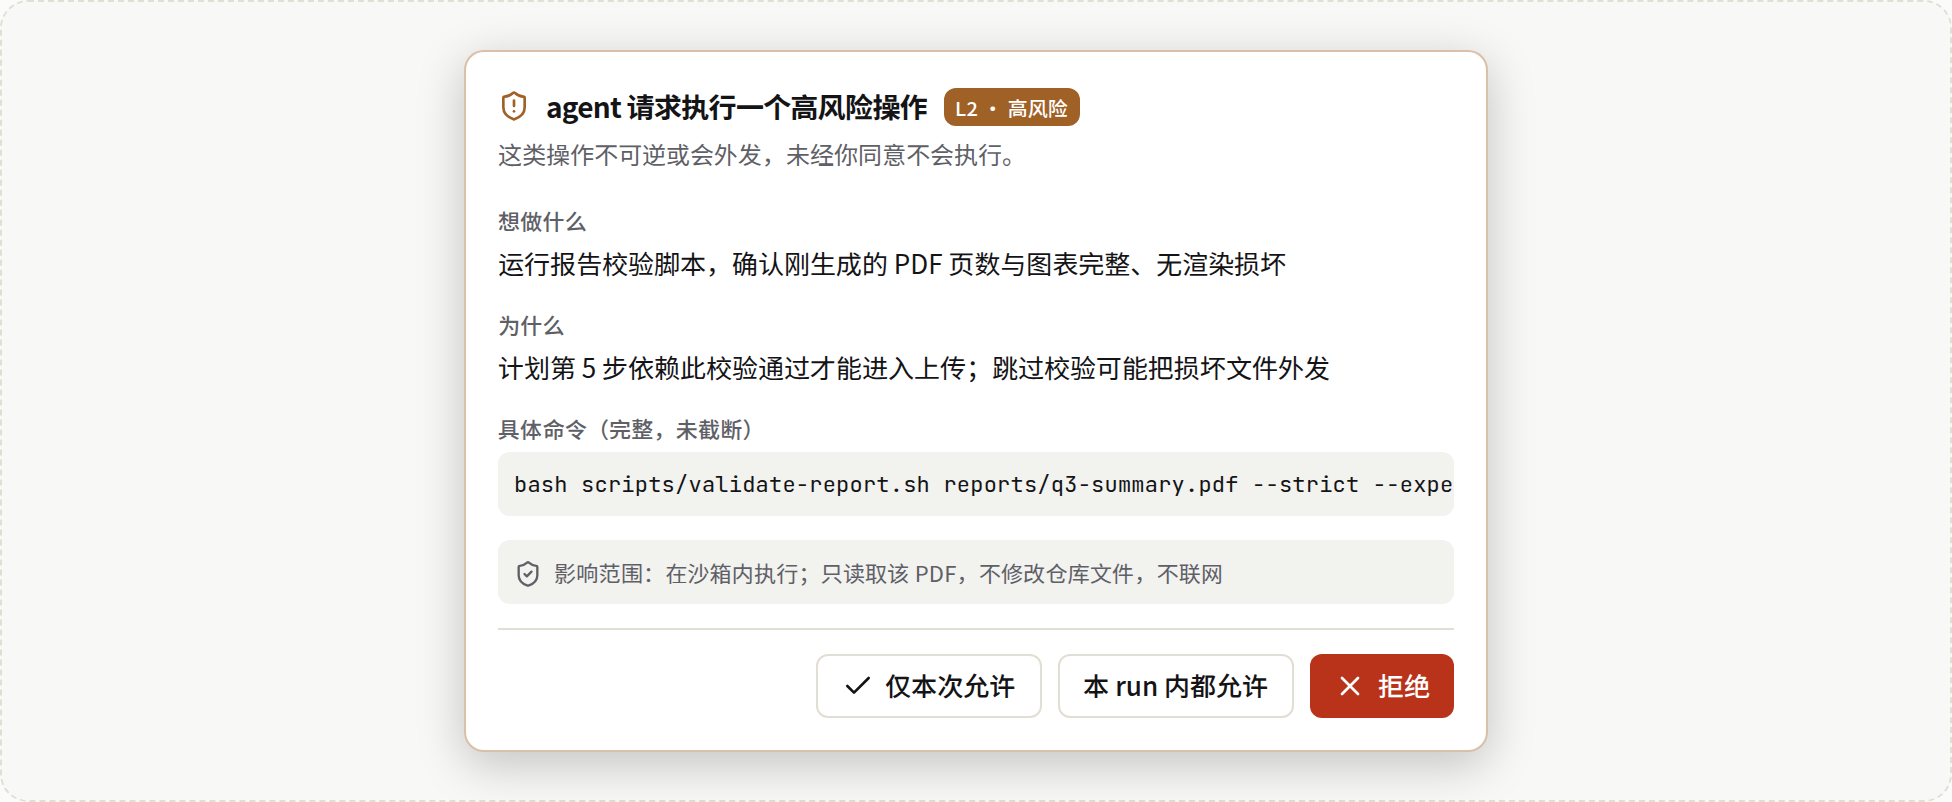
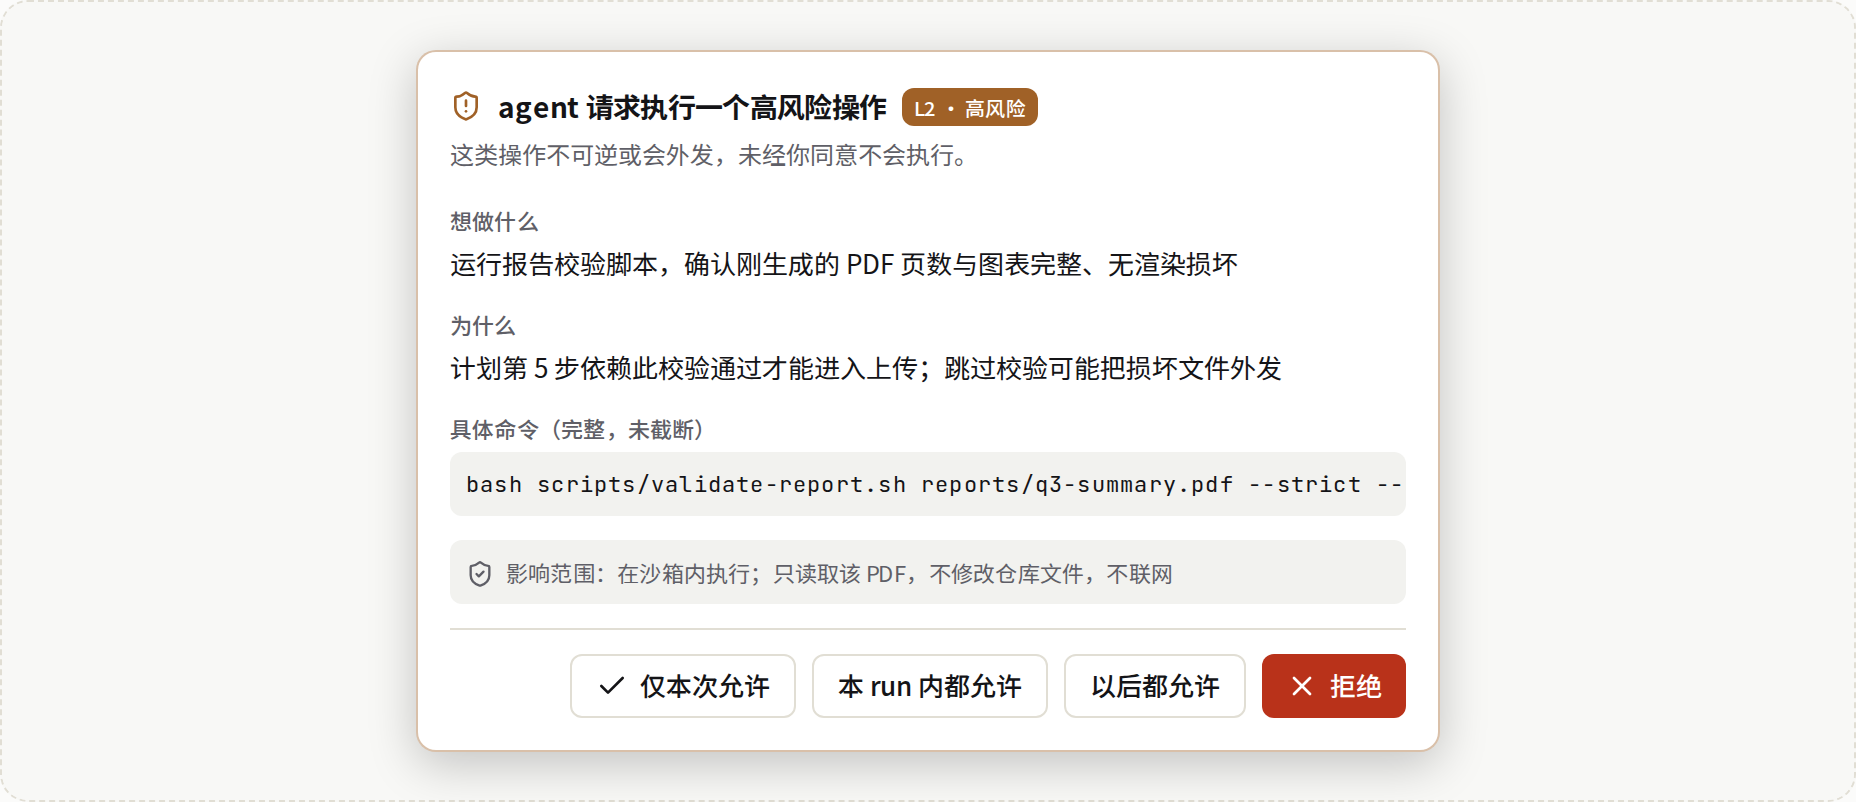
feat(agent-kernel): add "以后都允许" permission tier to ToolPermissionCard
- ToolPermissionCard now offers four decisions instead of three:
  仅本次允许 / 本run内都允许 / 以后都允许 (perm-always) / 拒绝
- Refresh 03-tool-permission-card.png preview screenshot to show the
  new fourth button
- Update ui-preview/README.md: button count/labels for unit 03, and
  resolve the previously-open "两档还是三档" question now that the
  fourth button lands

Claude-Session: https://claude.ai/code/session_01Lqoy6nGM6fVWzyW6vKHqER

diff --git a/apps/web/components/agent-kernel/agent-kernel-units.tsx b/apps/web/components/agent-kernel/agent-kernel-units.tsx
@@ -235,7 +235,7 @@ export function ProgressStream() {
 // ══ 03 工具权限确认弹层 ═════════════════════════════════════════════
 export function ToolPermissionCard() {
   const req = MOCK_PERMISSION_REQUEST;
-  const [decision, setDecision] = React.useState<null | "once" | "run" | "deny">(null);
+  const [decision, setDecision] = React.useState<null | "once" | "run" | "always" | "deny">(null);
 
   return (
     <Card data-testid="tool-permission-card" className="max-w-lg border-warning/40 shadow-lg">
@@ -277,16 +277,20 @@ export function ToolPermissionCard() {
           >
             {decision === "once" && "已允许本次执行，agent 继续。"}
             {decision === "run" && "本次 run 内同类操作将不再打断你。"}
+            {decision === "always" && "已记为长期允许，本组织同类操作以后不再询问（可在下次弹出时改选拒绝以撤销）。"}
             {decision === "deny" && "已拒绝。agent 会据此调整后续计划，而不是直接失败。"}
           </p>
         )}
 
-        <div className="flex flex-col gap-2 border-t border-border pt-3 sm:flex-row sm:justify-end">
+        <div className="flex flex-col gap-2 border-t border-border pt-3 sm:flex-row sm:justify-end sm:flex-wrap">
           <Button variant="outline" data-testid="perm-once" onClick={() => setDecision("once")}>
             <Check aria-hidden className="h-4 w-4" /> 仅本次允许
           </Button>
           <Button variant="outline" data-testid="perm-run" onClick={() => setDecision("run")}>
             本 run 内都允许
+          </Button>
+          <Button variant="outline" data-testid="perm-always" onClick={() => setDecision("always")}>
+            以后都允许
           </Button>
           <Button variant="destructive" data-testid="perm-deny" onClick={() => setDecision("deny")}>
             <X aria-hidden className="h-4 w-4" /> 拒绝

diff --git a/phases/phase-14-agent-kernel-unification/ui-preview/README.md b/phases/phase-14-agent-kernel-unification/ui-preview/README.md
@@ -24,7 +24,7 @@ cd apps/web && pnpm dev
 |---|------|----------|---------------|------|
 | 1 | 计划确认卡片 | 03-plan-mode R3.2 / R8 | `awaiting_plan_confirmation` | `01-plan-confirmation-card.png` |
 | 2 | 执行进度流（planningNote + L1 diff 展开） | 03-plan-mode R5 / 02-streaming R3 / R8 | `running` | `02-progress-stream.png` |
-| 3 | 工具权限确认弹层（三选一） | 03-plan-mode R3.5 / R8 | `awaiting_tool_permission` | `03-tool-permission-card.png` |
+| 3 | 工具权限确认弹层（四选一：仅本次/本 run 内/以后都允许/拒绝） | 03-plan-mode R3.5 / R8 | `awaiting_tool_permission` | `03-tool-permission-card.png` |
 | 4 | 中途插话入口（可交互 + 已收到反馈） | 04-artifacts-steering R3'.5 / R8 | `running` | `04-interjection-composer.png` |
 | 5 | 产出物面板（版本历史 / 基于此继续） | 04-artifacts-steering R3 / R8 | 侧栏（run 内外均可见） | `05-artifacts-panel.png`、`05-artifacts-panel-empty.png` |
 | 6 | 错误状态卡片（message + suggestedAction + 折叠详情） | 05-error-observability R3.5 / R8 | `failed` | `06-error-card.png` |
@@ -58,7 +58,7 @@ cd apps/web && pnpm dev
    真实判定属内核（R8 未定义前端判据）。**前端应做多重校验还是纯展示内核回传的错误，需澄清。**
 4. **权限弹层做成就地卡片而非模态遮罩弹窗**。R8 用词「弹层」。我选了非阻断的就地卡片（进度流上方），
    与「运行中输入框保持可交互」的插话理念一致，避免遮罩把整个进度流盖住。**若要真模态请裁决。**
-5. **三个权限按钮的视觉权重**：仅本次/本 run 内都用 outline（对等），拒绝用 destructive。
+5. **四个权限按钮的视觉权重**：仅本次/本 run 内都用/以后都允许均为 outline（对等），拒绝用 destructive。
    UC 未指定哪个是默认高亮项。我刻意不把任何「允许」设成 primary，避免诱导点允许。**是否需要默认项？**
 6. **错误卡三个 suggestedAction 全部常驻展示**（retry 为 primary，其余 outline）。R3.5 说「按钮」，
    未说是否全展示或按错误码筛选。我全展示并给每个加一句 hint。**某些错误码可能不该给「重试」，
@@ -76,15 +76,16 @@ cd apps/web && pnpm dev
   `awaiting_plan_confirmation`/`awaiting_tool_permission`/`paused`。其中 `awaiting_approval` 与
   03 的 `awaiting_tool_permission` 语义高度重叠但命名不同。我按 03 的命名做权限弹层，
   **`awaiting_approval` 是否为同一状态的旧名（应统一）请确认**——若是两种不同审批，UI 还缺一屏。
-- **03 R8 说权限弹层三选一含「本次 run 内都允许」，但 R5 授权粒度是「单次/本 run 内/组织默认」三档**，
-  而 00-overview 明确「组织级默认策略后台不在本 phase」。我在弹层只放前两档（单次、本 run 内），
-  未放「以后都允许（组织默认）」——与 R8 的三按钮字面不完全一致，取 00-overview 的范围裁剪为准。
-  **若本 phase 仍需运行时触发「以后都允许」入口（只是不做管理后台），需补第三个按钮。**
+- **03 R8 说权限弹层含「本次 run 内都允许」，R5 授权粒度是「单次/本 run 内/组织默认」三档**，
+  而 00-overview 明确「组织级默认策略后台不在本 phase」。**已解决**：补上第四个按钮「以后都允许」
+  （`data-testid="perm-always"`）作为运行时触发入口——只做该决策档位在 UI 上的落点，不做组织级
+  管理后台（后台仍不在本 phase 范围）。
 
 ## 建议人类在束级 design-signoff.md 第 ① 件重点核对的 3 处
 
-1. **权限弹层的按钮档位**（上文矛盾第 2 条）：到底是两档还是三档？这直接决定后端授权存储的枚举，
-   是 UI/UC/API 三件必须对齐的点，错了会级联到契约。
+1. **权限弹层的按钮档位**（上文矛盾第 2 条）：UI 侧已按四档（单次/本 run 内/以后都允许/拒绝）落地，
+   仍需人类确认对应的后端授权存储枚举与 API 契约是否已按四档对齐——这是 UI/UC/API 三件必须一致的点，
+   错了会级联到契约。
 2. **计划阶段是否暴露 L0/L1/L2 风险徽标**（设计决定 1）：影响信息密度与用户心智，
    且决定 `plan_update` 事件是否需要携带每步的风险级字段（牵动 02-streaming 的事件 schema）。
 3. **系统保护性暂停能否被用户强行恢复**（设计决定 7）：这是安全语义问题，
